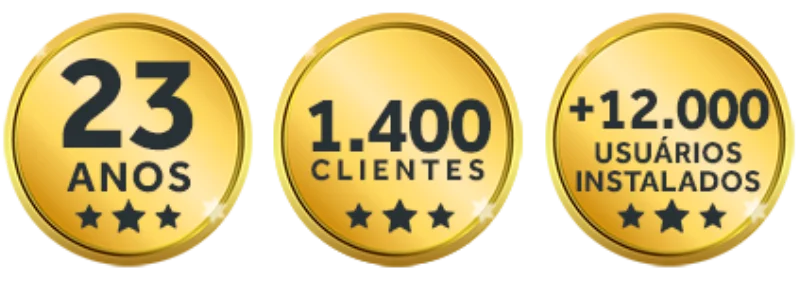
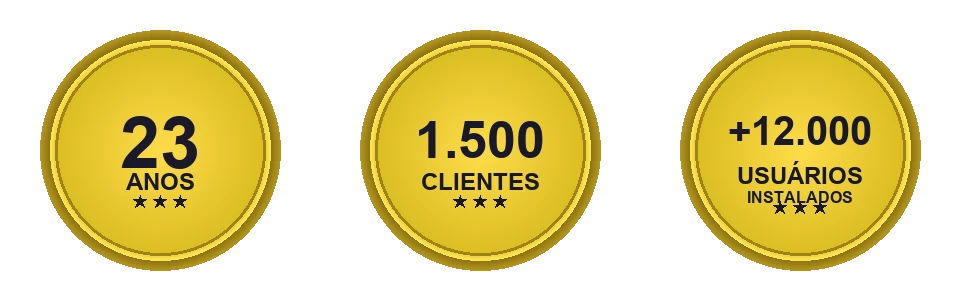
fix(conteleteams): reverter 23 anos no contador + atualizar selo 1.500 clientes
- Contador: volta para +23 anos (completa 23 em dez/2026, confirmado Marco)
- Selo dourado footer: 1.400 → 1.500 clientes (imagem regenerada)

diff --git a/conteleteams.com.br/index.html b/conteleteams.com.br/index.html
@@ -1807,7 +1807,7 @@
   <div class="container">
     <div class="counters-grid">
       <div class="counter-item">
-        <span class="counter-number" data-target="22" data-prefix="+" data-suffix=" anos">+22 anos</span>
+        <span class="counter-number" data-target="23" data-prefix="+" data-suffix=" anos">+23 anos</span>
         <span class="counter-label">De mercado</span>
       </div>
       <div class="counter-item">